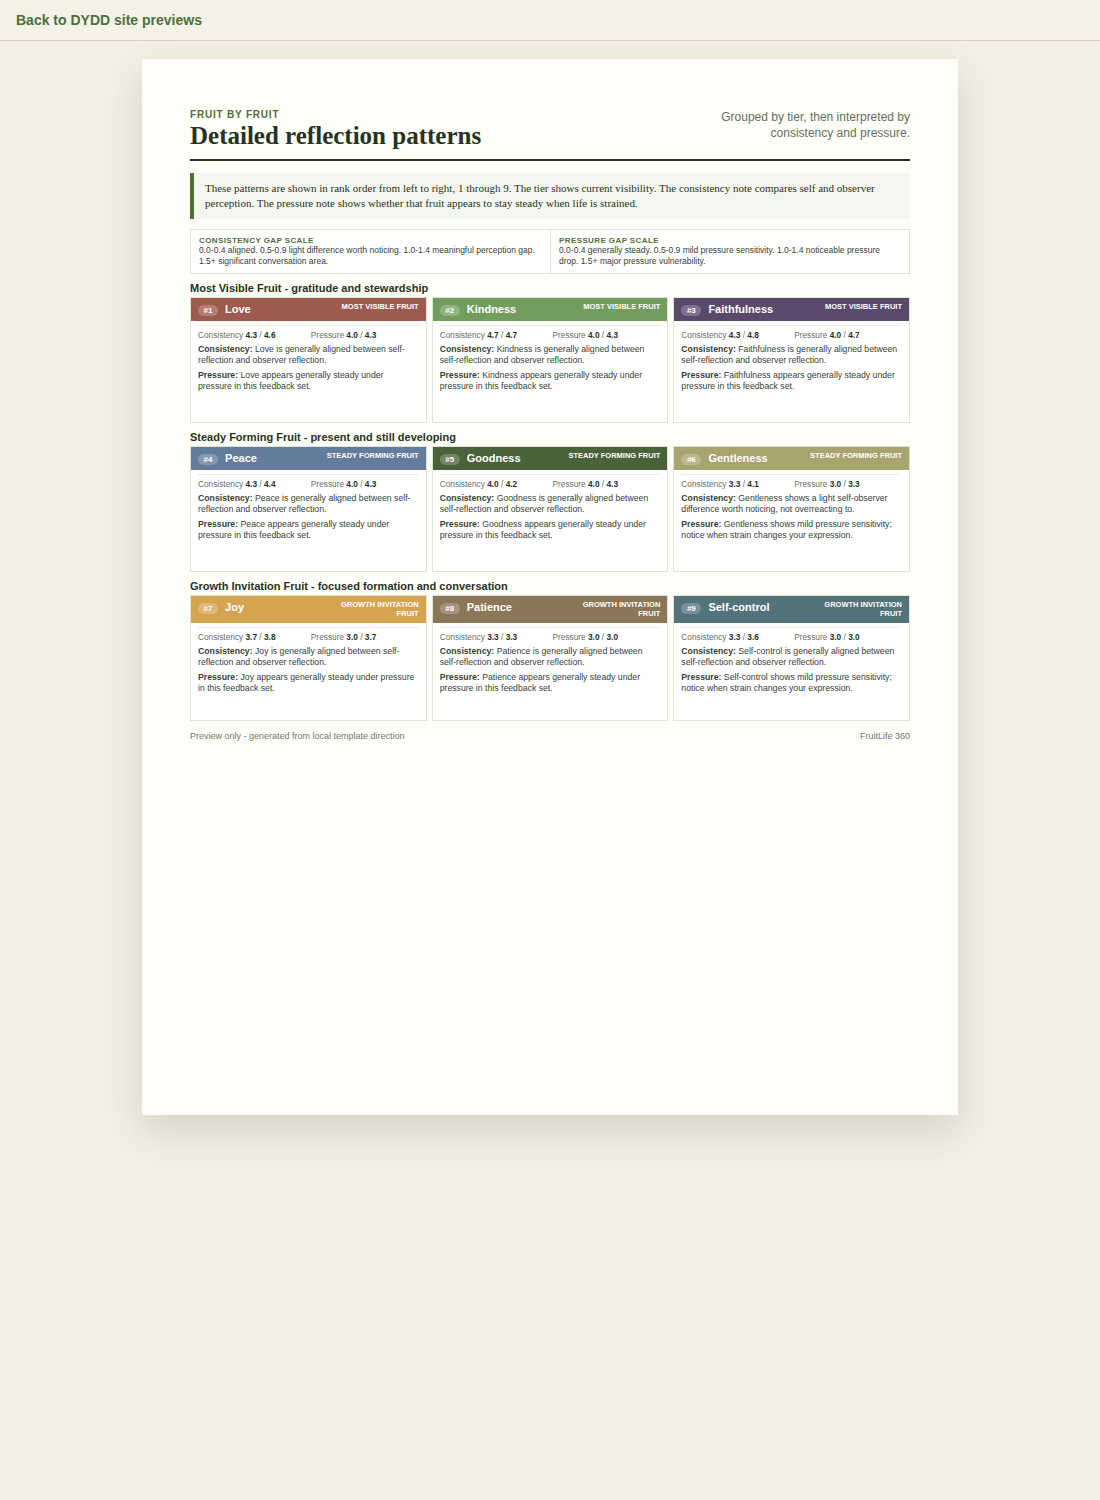
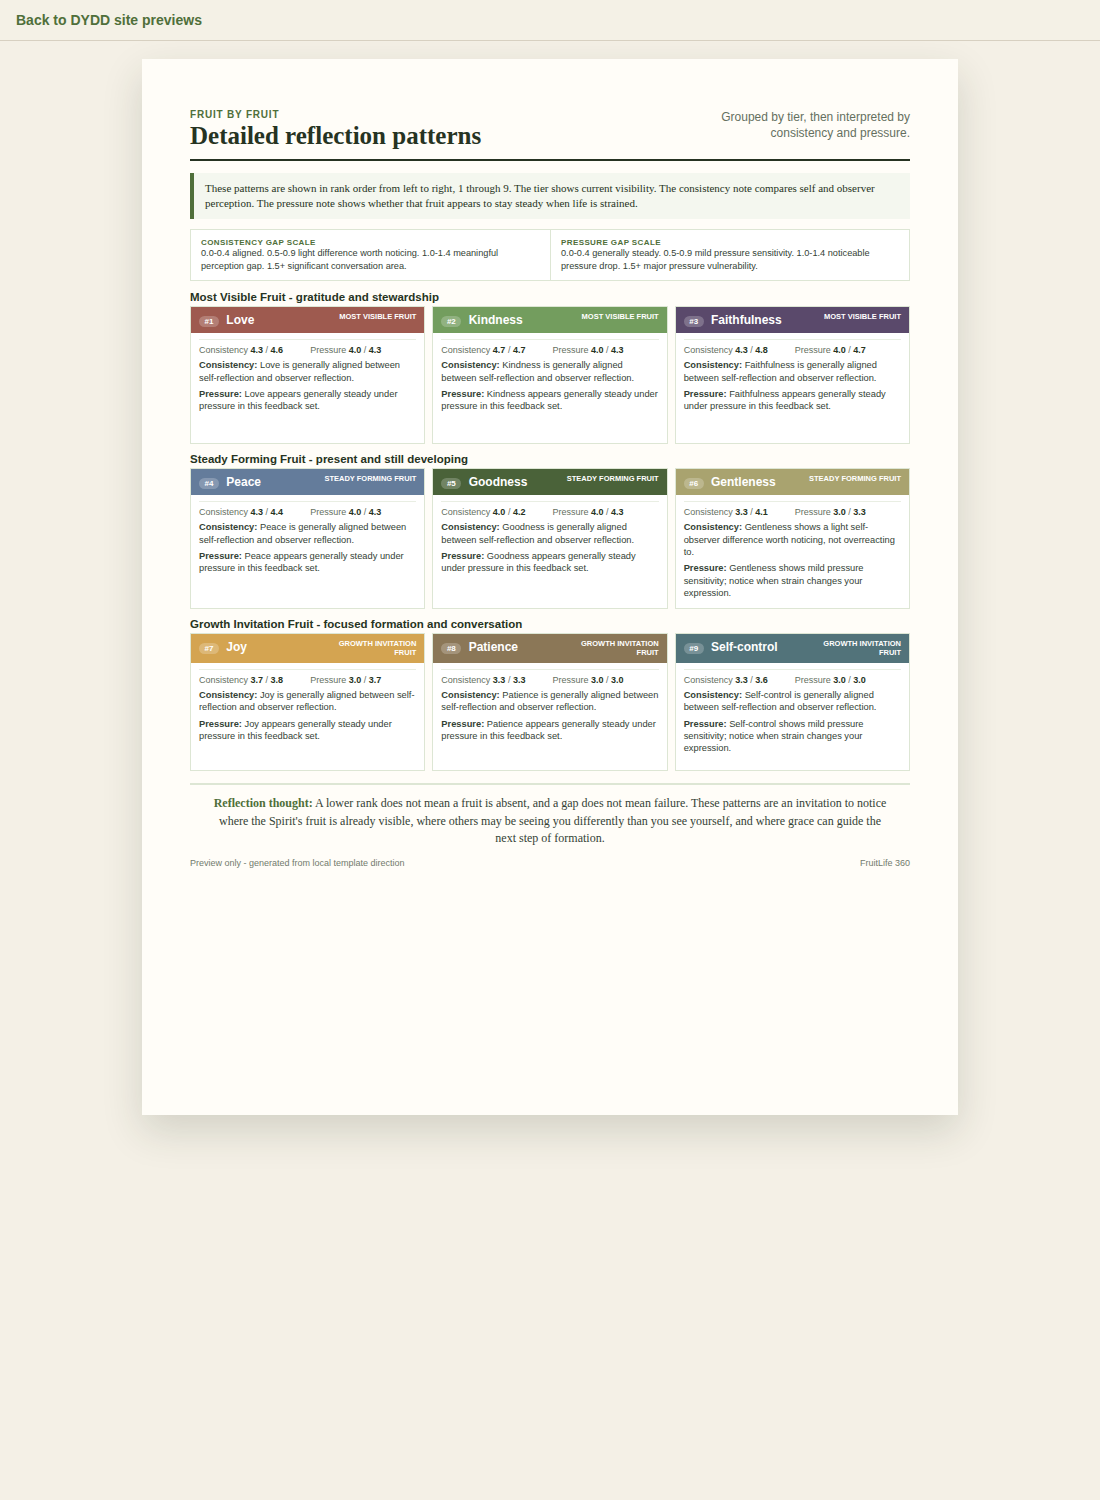
Polish FruitLife reflection pattern layout

Changed region(s): [[0.1545, 0.1533, 0.8345, 0.5827]]

diff --git a/fruitlife-360/templates/pdfmonkey/fruitlife-360-report.html b/fruitlife-360/templates/pdfmonkey/fruitlife-360-report.html
@@ -710,8 +710,8 @@
     .pattern-grid {
       display: table;
       width: 100%;
-      border-spacing: 5px 5px;
-      margin: 3px -5px 3px;
+      border-spacing: 6px 7px;
+      margin: 3px -6px 4px;
     }
 
     .pattern-row {
@@ -723,7 +723,7 @@
       width: 33.333%;
       border: 1px solid var(--dydd-line);
       background: #ffffff;
-      padding: 0 6px 6px;
+      padding: 0 7px 9px;
       vertical-align: top;
       page-break-inside: avoid;
       break-inside: avoid;
@@ -732,8 +732,8 @@
     .pattern-title {
       display: table;
       width: 100%;
-      margin: 0 -6px 4px;
-      padding: 5px 6px;
+      margin: 0 -7px 6px;
+      padding: 6px 7px;
       color: #ffffff;
     }
 
@@ -746,7 +746,7 @@
     .pattern-name {
       width: 48%;
       color: #ffffff;
-      font-size: 11px;
+      font-size: 11.8px;
       font-weight: 700;
     }
 
@@ -797,9 +797,9 @@
       display: table;
       width: 100%;
       border-top: 1px solid #E9EEE3;
-      padding-top: 4px;
-      margin-top: 3px;
-      font-size: 8px;
+      padding-top: 5px;
+      margin-top: 4px;
+      font-size: 8.7px;
       color: var(--dydd-muted);
     }
 
@@ -815,15 +815,15 @@
 
     .pattern-note {
       margin-top: 4px;
-      font-size: 8.2px;
-      line-height: 1.25;
+      font-size: 8.9px;
+      line-height: 1.33;
       color: #344235;
     }
 
     .pattern-section-label {
-      margin: 8px 0 2px;
+      margin: 9px 0 3px;
       color: #263322;
-      font-size: 10px;
+      font-size: 10.5px;
       font-weight: 700;
     }
 
@@ -832,17 +832,17 @@
       width: 100%;
       border: 1px solid var(--dydd-line);
       background: #ffffff;
-      margin: 7px 0 8px;
+      margin: 8px 0 10px;
     }
 
     .pattern-scale-col {
       display: table-cell;
       width: 50%;
-      padding: 6px 8px;
+      padding: 8px 10px;
       vertical-align: top;
       border-left: 1px solid var(--dydd-line);
-      font-size: 8.3px;
-      line-height: 1.32;
+      font-size: 9px;
+      line-height: 1.38;
       color: #344235;
     }
 
@@ -856,6 +856,21 @@
       font-weight: 700;
       letter-spacing: 0.05em;
       text-transform: uppercase;
+    }
+
+    .pattern-closing {
+      margin-top: 10px;
+      border-top: 2px solid var(--dydd-line);
+      padding: 9px 12px 0;
+      color: #344235;
+      font-family: Georgia, "Times New Roman", serif;
+      font-size: 10.5px;
+      line-height: 1.45;
+      text-align: center;
+    }
+
+    .pattern-closing strong {
+      color: var(--dydd-green);
     }
 
     .fruit-details-legacy {
@@ -1385,6 +1400,10 @@
         {% if gentleness_tier_label contains "Growth Invitation" %}<div class="pattern-card fruit-gentleness"><div class="pattern-title"><div class="pattern-name"><span class="pattern-rank">{% if gentleness_rank != blank %}#{{ gentleness_rank }}{% endif %}</span> Gentleness</div><div class="pattern-tier">{{ gentleness_tier_label }}</div></div><div class="pattern-stat"><span>Consistency <strong>{{ gentleness_self | round: 1 }}</strong> / <strong>{{ gentleness_observer | round: 1 }}</strong></span><span>Pressure <strong>{{ gentleness_self_pressure | round: 1 }}</strong> / <strong>{{ gentleness_observer_pressure | round: 1 }}</strong></span></div><div class="pattern-note"><strong>Consistency:</strong> {% if gentleness_consistency_note != blank %}{{ gentleness_consistency_note }}{% else %}{{ gentleness_summary }}{% endif %}</div><div class="pattern-note"><strong>Pressure:</strong> {% if gentleness_pressure_note != blank %}{{ gentleness_pressure_note }}{% else %}{{ gentleness_pressure_pattern }}{% endif %}</div></div>{% endif %}
         {% if self_control_tier_label contains "Growth Invitation" %}<div class="pattern-card fruit-selfcontrol"><div class="pattern-title"><div class="pattern-name"><span class="pattern-rank">{% if self_control_rank != blank %}#{{ self_control_rank }}{% endif %}</span> Self-control</div><div class="pattern-tier">{{ self_control_tier_label }}</div></div><div class="pattern-stat"><span>Consistency <strong>{{ self_control_self | round: 1 }}</strong> / <strong>{{ self_control_observer | round: 1 }}</strong></span><span>Pressure <strong>{{ self_control_self_pressure | round: 1 }}</strong> / <strong>{{ self_control_observer_pressure | round: 1 }}</strong></span></div><div class="pattern-note"><strong>Consistency:</strong> {% if self_control_consistency_note != blank %}{{ self_control_consistency_note }}{% else %}{{ self_control_summary }}{% endif %}</div><div class="pattern-note"><strong>Pressure:</strong> {% if self_control_pressure_note != blank %}{{ self_control_pressure_note }}{% else %}{{ self_control_pressure_pattern }}{% endif %}</div></div>{% endif %}
       </div>
+    </div>
+
+    <div class="pattern-closing avoid-break">
+      <strong>Reflection thought:</strong> A lower rank does not mean a fruit is absent, and a gap does not mean failure. These patterns are an invitation to notice where the Spirit's fruit is already visible, where others may be seeing you differently than you see yourself, and where grace can guide the next step of formation.
     </div>
   </section>
 

diff --git a/pages/fruitlife-360-detailed-reflection-patterns/index.html b/pages/fruitlife-360-detailed-reflection-patterns/index.html
@@ -99,23 +99,23 @@
     }
 
     .pattern-section-label {
-      margin: 8px 0 3px;
+      margin: 9px 0 3px;
       color: var(--ink);
-      font: 700 11px Arial, sans-serif;
+      font: 700 11.5px Arial, sans-serif;
     }
 
     .pattern-grid {
       display: grid;
       grid-template-columns: repeat(3, minmax(0, 1fr));
-      gap: 5px;
-      margin-bottom: 4px;
+      gap: 7px;
+      margin-bottom: 5px;
     }
 
     .pattern-card {
       border: 1px solid var(--line);
       background: #fff;
-      padding: 0 7px 7px;
-      min-height: 126px;
+      padding: 0 8px 9px;
+      min-height: 138px;
       overflow: hidden;
     }
 
@@ -124,13 +124,13 @@
       align-items: flex-start;
       justify-content: space-between;
       gap: 8px;
-      margin: 0 -7px 4px;
-      padding: 5px 7px;
+      margin: 0 -8px 6px;
+      padding: 6px 8px;
       color: #fff;
     }
 
     .pattern-name {
-      font: 700 11px Arial, sans-serif;
+      font: 700 12px Arial, sans-serif;
       color: #fff;
     }
 
@@ -169,13 +169,13 @@
       grid-template-columns: 1fr 1fr;
       border: 1px solid var(--line);
       background: #fff;
-      margin: 7px 0 8px;
+      margin: 8px 0 10px;
     }
 
     .pattern-scale-col {
-      padding: 6px 8px;
+      padding: 8px 10px;
       border-left: 1px solid var(--line);
-      font: 8.5px/1.32 Arial, sans-serif;
+      font: 9.2px/1.38 Arial, sans-serif;
       color: #344235;
     }
 
@@ -193,9 +193,9 @@
       grid-template-columns: 1fr 1fr;
       gap: 5px;
       border-top: 1px solid #e9eee3;
-      padding-top: 4px;
-      margin-top: 3px;
-      font: 8.3px Arial, sans-serif;
+      padding-top: 5px;
+      margin-top: 4px;
+      font: 9px Arial, sans-serif;
       color: var(--muted);
     }
 
@@ -205,8 +205,21 @@
 
     .pattern-note {
       margin-top: 4px;
-      font: 8.7px/1.27 Arial, sans-serif;
+      font: 9.3px/1.33 Arial, sans-serif;
       color: #344235;
+    }
+
+    .pattern-closing {
+      margin-top: 12px;
+      border-top: 2px solid var(--line);
+      padding: 10px 18px 0;
+      color: #344235;
+      font: 12px/1.45 Georgia, "Times New Roman", serif;
+      text-align: center;
+    }
+
+    .pattern-closing strong {
+      color: var(--green);
     }
 
     .footer {
@@ -339,6 +352,10 @@
         <div class="pattern-note"><strong>Consistency:</strong> Self-control is generally aligned between self-reflection and observer reflection.</div>
         <div class="pattern-note"><strong>Pressure:</strong> Self-control shows mild pressure sensitivity; notice when strain changes your expression.</div>
       </article>
+    </div>
+
+    <div class="pattern-closing">
+      <strong>Reflection thought:</strong> A lower rank does not mean a fruit is absent, and a gap does not mean failure. These patterns are an invitation to notice where the Spirit's fruit is already visible, where others may be seeing you differently than you see yourself, and where grace can guide the next step of formation.
     </div>
 
     <div class="footer"><span>Preview only - generated from local template direction</span><span>FruitLife 360</span></div>
